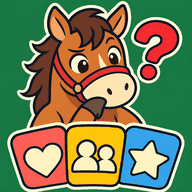
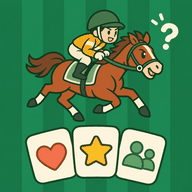
アイコンを騎手と馬の絵に変更
Claude-Session: https://claude.ai/code/session_01BDm6yKYQx8pFJbq2xyRXBr

diff --git a/index.html b/index.html
@@ -6,13 +6,13 @@
 <title>カチレンタン 〜価値観トップ3を当てろ！〜</title>
 <meta name="description" content="あの人の価値観、当てられる？ 出題者のトップ3を順位まで予想するゲーム">
 <meta name="theme-color" content="#1f7a4d">
-<link rel="icon" type="image/png" href="img/favicon.png">
-<link rel="apple-touch-icon" href="img/apple-touch-icon.png">
-<link rel="manifest" href="manifest.json">
+<link rel="icon" type="image/png" href="img/favicon.png?v=2">
+<link rel="apple-touch-icon" href="img/apple-touch-icon.png?v=2">
+<link rel="manifest" href="manifest.json?v=2">
 <meta name="apple-mobile-web-app-title" content="カチレンタン">
 <meta property="og:title" content="カチレンタン 〜価値観トップ3を当てろ！〜">
 <meta property="og:description" content="あの人の価値観、当てられる？ 出題者のトップ3を順位まで予想するゲーム">
-<meta property="og:image" content="https://iamochiai-collab.github.io/KACHIRENTAN/img/icon-512.png">
+<meta property="og:image" content="https://iamochiai-collab.github.io/KACHIRENTAN/img/icon-512.png?v=2">
 <meta property="og:type" content="website">
 <meta name="twitter:card" content="summary">
 <link rel="preconnect" href="https://fonts.googleapis.com">
